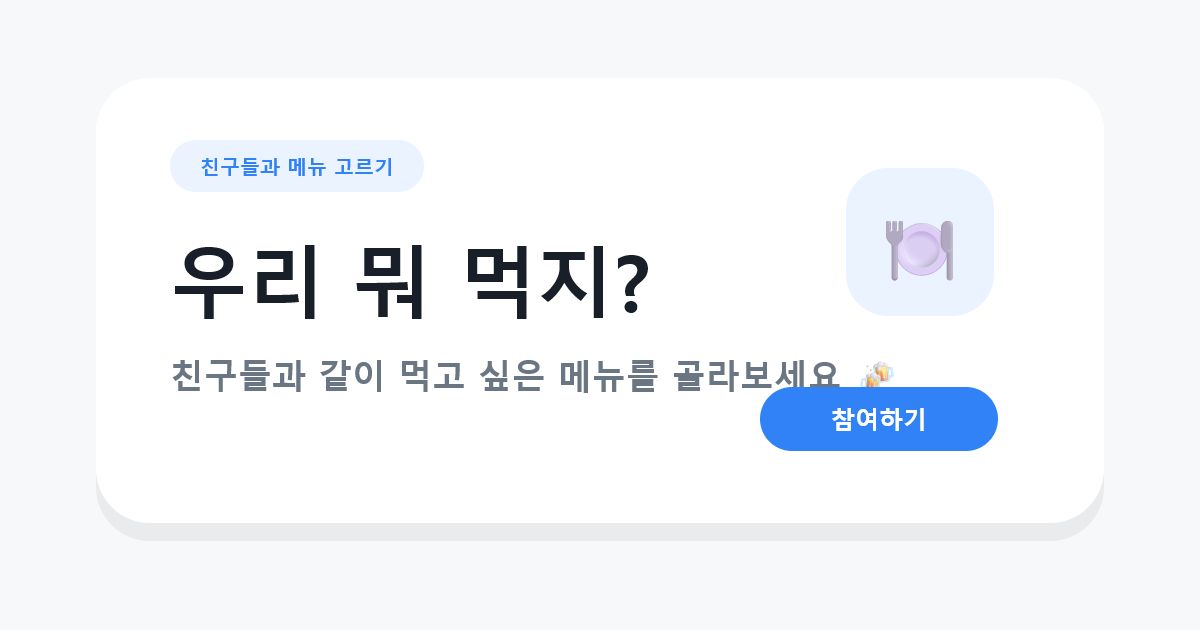
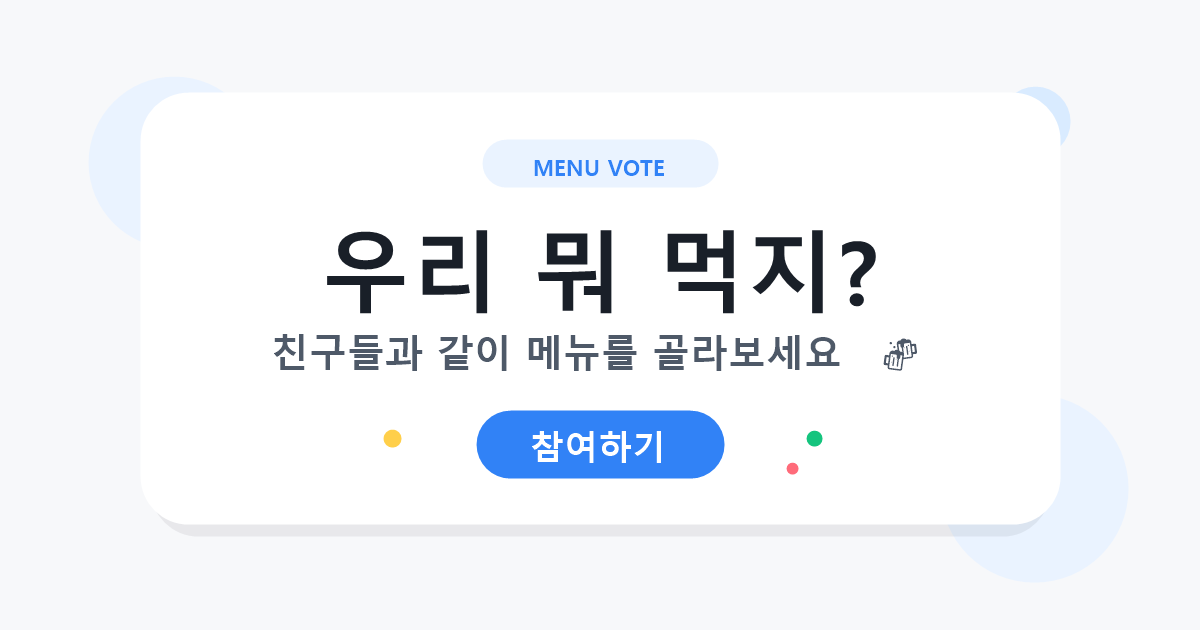
Fix sharing and delivery result flow

diff --git a/app/components/VoteResult.tsx b/app/components/VoteResult.tsx
@@ -229,8 +229,8 @@ export default function VoteResult() {
   const [rouletteRotation, setRouletteRotation] = useState(0);
   const [rouletteWinner, setRouletteWinner] = useState("");
   const [showConfetti, setShowConfetti] = useState(false);
-  const [tieBreakerMode, setTieBreakerMode] = useState<"roulette" | "revote">(
-    "roulette",
+  const [tieBreakerMode, setTieBreakerMode] = useState<"select" | "revote">(
+    "select",
   );
   const [selectedRevoteMenu, setSelectedRevoteMenu] = useState("");
   const [isSavingRevote, setIsSavingRevote] = useState(false);
@@ -549,6 +549,7 @@ export default function VoteResult() {
       return;
     }
 
+    setTieBreakerMode("revote");
     setDecision({
       type: "revote",
       menus: payload.slice(1),
@@ -593,6 +594,7 @@ export default function VoteResult() {
           menus: existingDecision.menus.slice(1),
           createdAt: existingDecision.created_at,
         });
+        setTieBreakerMode("revote");
       } else {
         const { error } = await supabase.from("votes").insert({
           project_id: projectId,
@@ -611,6 +613,7 @@ export default function VoteResult() {
           menus: candidates,
           createdAt: new Date().toISOString(),
         });
+        setTieBreakerMode("revote");
       }
     }
 
@@ -850,52 +853,7 @@ export default function VoteResult() {
                       </span>
                     ))}
                   </div>
-                  {tieBreakerMode === "roulette" ? (
-                    <>
-                      <div className="relative mx-auto mt-5 flex h-64 w-64 items-center justify-center">
-                        <div className="absolute -top-1 z-10 h-0 w-0 border-x-[13px] border-t-[24px] border-x-transparent border-t-[#191f28]" />
-                        <div
-                          className="relative h-60 w-60 rounded-full border-[10px] border-white shadow-[0_14px_34px_rgba(25,31,40,0.12)]"
-                          style={{
-                            background: buildRouletteBackground(
-                              topMenus.map((item) => item.menu),
-                            ),
-                          }}
-                        >
-                          {topMenus.map((item, index) => {
-                            const segmentAngle = 360 / topMenus.length;
-                            const angle =
-                              index * segmentAngle + segmentAngle / 2 - 90;
-
-                            return (
-                              <div
-                                key={item.menu}
-                                className="absolute left-1/2 top-1/2 origin-left text-[13px] font-black text-[#191f28]"
-                                style={{
-                                  transform: `rotate(${angle}deg) translateX(46px) rotate(90deg)`,
-                                }}
-                              >
-                                <span className="rounded-full bg-white/75 px-2 py-1 shadow-sm">
-                                  {menuIcons[item.menu] || "🍽"} {item.menu}
-                                </span>
-                              </div>
-                            );
-                          })}
-                          <button
-                            type="button"
-                            onClick={() => saveDecision("random")}
-                            disabled={Boolean(decisionAction)}
-                            className="absolute left-1/2 top-1/2 flex h-16 w-16 -translate-x-1/2 -translate-y-1/2 items-center justify-center rounded-full bg-white text-base font-black shadow-[0_8px_18px_rgba(25,31,40,0.16)] transition-all hover:scale-105 active:scale-95 disabled:text-[#b0b8c1]"
-                          >
-                            돌리기
-                          </button>
-                        </div>
-                      </div>
-                      <p className="mt-3 text-center text-xs font-bold text-[#8b95a1]">
-                        준비되면 버튼을 눌러 룰렛을 돌려보세요
-                      </p>
-                    </>
-                  ) : (
+                  {tieBreakerMode === "revote" ? (
                     <div className="mt-5 rounded-[28px] bg-white p-4">
                       <p className="text-sm font-black text-[#191f28]">
                         1등 메뉴 다시 투표 🗳
@@ -935,35 +893,28 @@ export default function VoteResult() {
                         {isSavingRevote ? "저장 중..." : "재투표 완료"}
                       </button>
                     </div>
+                  ) : (
+                    <div className="mt-5 grid grid-cols-1 gap-2">
+                      <button
+                        type="button"
+                        onClick={() => saveDecision("random")}
+                        disabled={Boolean(decisionAction)}
+                        className="h-12 rounded-[24px] bg-[#3182f6] text-sm font-extrabold text-white transition-all hover:scale-[1.02] active:scale-[0.99] disabled:bg-[#d8dde3]"
+                      >
+                        🎲 랜덤 룰렛
+                      </button>
+                      <button
+                        type="button"
+                        onClick={() => saveDecision("revote")}
+                        disabled={Boolean(decisionAction)}
+                        className="h-12 rounded-[24px] border border-[#dbe5f0] bg-white text-sm font-extrabold text-[#3182f6] transition-all hover:scale-[1.02] active:scale-[0.99] disabled:text-[#b0b8c1]"
+                      >
+                        {decisionAction === "revote"
+                          ? "재투표 준비 중..."
+                          : "🗳 공동 1등 재투표"}
+                      </button>
+                    </div>
                   )}
-                  <div className="mt-4 grid grid-cols-2 gap-2">
-                    <button
-                      type="button"
-                      onClick={() => setTieBreakerMode("roulette")}
-                      disabled={Boolean(decisionAction)}
-                      className={[
-                        "h-12 rounded-[24px] text-sm font-extrabold transition-all hover:scale-[1.02] active:scale-[0.99] disabled:text-[#b0b8c1]",
-                        tieBreakerMode === "roulette"
-                          ? "bg-[#3182f6] text-white"
-                          : "border border-[#dbe5f0] bg-white text-[#3182f6]",
-                      ].join(" ")}
-                    >
-                      🎲 룰렛 돌리기
-                    </button>
-                    <button
-                      type="button"
-                      onClick={() => setTieBreakerMode("revote")}
-                      disabled={Boolean(decisionAction)}
-                      className={[
-                        "h-12 rounded-[24px] text-sm font-extrabold transition-all hover:scale-[1.02] active:scale-[0.99] disabled:text-[#b0b8c1]",
-                        tieBreakerMode === "revote"
-                          ? "bg-[#3182f6] text-white"
-                          : "border border-[#dbe5f0] bg-white text-[#3182f6]",
-                      ].join(" ")}
-                    >
-                      🗳 1등 메뉴만 다시 투표
-                    </button>
-                  </div>
                 </>
               )}
             </div>
@@ -1020,28 +971,102 @@ export default function VoteResult() {
               )}
 
               {isDelivery ? (
-                <div className="mt-4 rounded-[26px] bg-white p-3">
-                  <p className="px-1 text-xs font-extrabold text-[#8b95a1]">
-                    배달 주소
-                  </p>
-                  <input
-                    value={locationQuery}
-                    onChange={(event) => {
-                      setLocationMode("search");
-                      setLocationQuery(event.target.value);
-                      setLocationLabel("");
-                      setLocationCoords(null);
-                      setLocationError("");
-                    }}
-                    onKeyDown={(event) => {
-                      if (event.key === "Enter" && canRecommend) {
-                        goToRecommendations();
-                      }
-                    }}
-                    placeholder="예: 강남역 11번 출구, 성수동 카페거리"
-                    className="mt-2 h-12 w-full rounded-[24px] border border-[#e8eef6] bg-[#f7f8fa] px-4 text-sm font-bold text-[#191f28] outline-none transition-all placeholder:text-[#b0b8c1] focus:border-[#3182f6] focus:bg-white"
-                  />
-                </div>
+                <>
+                  <div className="mt-4 grid grid-cols-2 gap-2">
+                    <button
+                      type="button"
+                      onClick={selectCurrentLocation}
+                      disabled={isLocating}
+                      className={[
+                        "h-12 rounded-[24px] text-sm font-extrabold transition-all hover:scale-[1.02] active:scale-[0.99] disabled:opacity-70",
+                        locationMode === "current"
+                          ? "border border-[#3182f6] bg-[#eaf3ff] text-[#3182f6]"
+                          : "border border-[#e8eef6] bg-white text-[#4e5968]",
+                      ].join(" ")}
+                    >
+                      {isLocating ? "확인 중..." : "📍 현재 위치 사용"}
+                    </button>
+                    <button
+                      type="button"
+                      onClick={selectSearchLocation}
+                      className={[
+                        "h-12 rounded-[24px] text-sm font-extrabold transition-all hover:scale-[1.02] active:scale-[0.99]",
+                        locationMode === "search"
+                          ? "border border-[#3182f6] bg-[#eaf3ff] text-[#3182f6]"
+                          : "border border-[#e8eef6] bg-white text-[#4e5968]",
+                      ].join(" ")}
+                    >
+                      주소 검색
+                    </button>
+                  </div>
+
+                  {locationMode === "search" && (
+                    <div className="mt-3 rounded-[26px] bg-white p-3">
+                      <p className="px-1 text-xs font-extrabold text-[#8b95a1]">
+                        배달 주소
+                      </p>
+                      <input
+                        value={locationQuery}
+                        onChange={(event) => {
+                          setLocationQuery(event.target.value);
+                          setLocationLabel("");
+                          setLocationCoords(null);
+                          setLocationCandidates([]);
+                          setLocationError("");
+                        }}
+                        onKeyDown={(event) => {
+                          if (event.key === "Enter") {
+                            searchLocationCandidates();
+                          }
+                        }}
+                        placeholder="예: 강남역 11번 출구, 성수동 카페거리"
+                        className="mt-2 h-12 w-full rounded-[24px] border border-[#e8eef6] bg-[#f7f8fa] px-4 text-sm font-bold text-[#191f28] outline-none transition-all placeholder:text-[#b0b8c1] focus:border-[#3182f6] focus:bg-white"
+                      />
+                      <button
+                        type="button"
+                        onClick={searchLocationCandidates}
+                        disabled={isSearchingLocations || !locationQuery.trim()}
+                        className="mt-2 h-11 w-full rounded-[22px] bg-[#3182f6] text-sm font-extrabold text-white transition-all hover:scale-[1.01] active:scale-[0.99] disabled:bg-[#d8dde3]"
+                      >
+                        {isSearchingLocations ? "검색 중..." : "주소 검색"}
+                      </button>
+                      {locationCandidates.length > 0 && (
+                        <div className="mt-3 space-y-2">
+                          <p className="px-1 text-xs font-extrabold text-[#8b95a1]">
+                            배달받을 위치를 선택해주세요
+                          </p>
+                          {locationCandidates.map((candidate) => {
+                            const isSelected =
+                              locationLabel === candidate.label &&
+                              locationCoords?.lat === Number(candidate.lat) &&
+                              locationCoords?.lng === Number(candidate.lng);
+
+                            return (
+                              <button
+                                type="button"
+                                key={candidate.id}
+                                onClick={() => selectLocationCandidate(candidate)}
+                                className={[
+                                  "w-full rounded-[20px] border px-4 py-3 text-left transition-all hover:scale-[1.01] active:scale-[0.99]",
+                                  isSelected
+                                    ? "border-[#3182f6] bg-[#eaf3ff]"
+                                    : "border-[#e8eef6] bg-white",
+                                ].join(" ")}
+                              >
+                                <span className="block text-sm font-black text-[#191f28]">
+                                  {candidate.label}
+                                </span>
+                                <span className="mt-1 block text-xs font-bold text-[#6b7684]">
+                                  {candidate.detail}
+                                </span>
+                              </button>
+                            );
+                          })}
+                        </div>
+                      )}
+                    </div>
+                  )}
+                </>
               ) : (
                 <>
                   <div className="mt-4 grid grid-cols-2 gap-2">

diff --git a/app/invite/page.tsx b/app/invite/page.tsx
@@ -8,6 +8,7 @@ const KAKAO_SDK_ID = "kakao-javascript-sdk";
 const KAKAO_SDK_URL = "https://t1.kakaocdn.net/kakao_js_sdk/2.8.1/kakao.min.js";
 const PRODUCTION_ORIGIN = "https://menu-project-three-ruddy.vercel.app";
 const KAKAO_SHARE_DEBUG_KEY = "kakao_share_debug_info";
+const SHOW_KAKAO_SHARE_DEBUG = process.env.NODE_ENV === "development";
 
 const meetingTypeLabels: Record<string, string> = {
   offline: "만나서 먹기",
@@ -188,7 +189,7 @@ function InviteContent() {
   const [notice, setNotice] = useState("");
   const [shareDebugInfo, setShareDebugInfo] =
     useState<KakaoShareDebugInfo | null>(() => {
-      if (typeof window === "undefined") {
+      if (!SHOW_KAKAO_SHARE_DEBUG || typeof window === "undefined") {
         return null;
       }
 
@@ -288,25 +289,27 @@ function InviteContent() {
       suspiciousUrlReason: getSuspiciousUrlReason(participantUrl),
     };
 
-    console.log("[Kakao Share Debug] window.location.href", window.location.href);
-    console.log("[Kakao Share Debug] participantUrl", participantUrl);
-    console.log(
-      "[Kakao Share Debug] link.mobileWebUrl",
-      payload.content.link.mobileWebUrl,
-    );
-    console.log("[Kakao Share Debug] link.webUrl", payload.content.link.webUrl);
-    console.log(
-      "[Kakao Share Debug] Kakao.isInitialized before load",
-      kakaoInitializedBeforeLoad,
-    );
-    console.log(
-      "[Kakao Share Debug] SDK execution origin",
-      baseDebugInfo.currentOrigin,
-      baseDebugInfo.executionOriginReason,
-    );
-    console.log("[Kakao Share Debug] payload", payload);
-    sessionStorage.setItem(KAKAO_SHARE_DEBUG_KEY, JSON.stringify(baseDebugInfo));
-    setShareDebugInfo(baseDebugInfo);
+    if (SHOW_KAKAO_SHARE_DEBUG) {
+      console.log("[Kakao Share Debug] window.location.href", window.location.href);
+      console.log("[Kakao Share Debug] participantUrl", participantUrl);
+      console.log(
+        "[Kakao Share Debug] link.mobileWebUrl",
+        payload.content.link.mobileWebUrl,
+      );
+      console.log("[Kakao Share Debug] link.webUrl", payload.content.link.webUrl);
+      console.log(
+        "[Kakao Share Debug] Kakao.isInitialized before load",
+        kakaoInitializedBeforeLoad,
+      );
+      console.log(
+        "[Kakao Share Debug] SDK execution origin",
+        baseDebugInfo.currentOrigin,
+        baseDebugInfo.executionOriginReason,
+      );
+      console.log("[Kakao Share Debug] payload", payload);
+      sessionStorage.setItem(KAKAO_SHARE_DEBUG_KEY, JSON.stringify(baseDebugInfo));
+      setShareDebugInfo(baseDebugInfo);
+    }
 
     try {
       await loadKakaoSdk();
@@ -317,18 +320,20 @@ function InviteContent() {
 
       const kakaoInitializedAfterLoad = window.Kakao.isInitialized();
 
-      console.log(
-        "[Kakao Share Debug] Kakao.isInitialized after load",
-        kakaoInitializedAfterLoad,
-      );
-      console.log("[Kakao Share Debug] sendDefault payload", payload);
       const nextDebugInfo = {
         ...baseDebugInfo,
         kakaoInitializedAfterLoad,
       };
 
-      sessionStorage.setItem(KAKAO_SHARE_DEBUG_KEY, JSON.stringify(nextDebugInfo));
-      setShareDebugInfo(nextDebugInfo);
+      if (SHOW_KAKAO_SHARE_DEBUG) {
+        console.log(
+          "[Kakao Share Debug] Kakao.isInitialized after load",
+          kakaoInitializedAfterLoad,
+        );
+        console.log("[Kakao Share Debug] sendDefault payload", payload);
+        sessionStorage.setItem(KAKAO_SHARE_DEBUG_KEY, JSON.stringify(nextDebugInfo));
+        setShareDebugInfo(nextDebugInfo);
+      }
       await waitForPaint();
 
       window.Kakao.Share.sendDefault(payload);
@@ -336,15 +341,17 @@ function InviteContent() {
       const errorMessage =
         error instanceof Error ? error.message : "Unknown Kakao Share error";
 
-      console.log("[Kakao Share Debug] share error", error);
       const nextDebugInfo = {
         ...baseDebugInfo,
         kakaoInitializedAfterLoad: window.Kakao?.isInitialized() ?? null,
         errorMessage,
       };
 
-      sessionStorage.setItem(KAKAO_SHARE_DEBUG_KEY, JSON.stringify(nextDebugInfo));
-      setShareDebugInfo(nextDebugInfo);
+      if (SHOW_KAKAO_SHARE_DEBUG) {
+        console.log("[Kakao Share Debug] share error", error);
+        sessionStorage.setItem(KAKAO_SHARE_DEBUG_KEY, JSON.stringify(nextDebugInfo));
+        setShareDebugInfo(nextDebugInfo);
+      }
       await copyInviteLink();
       showNotice("공유창을 열지 못해서 링크를 복사했어요");
     }
@@ -413,7 +420,7 @@ function InviteContent() {
           {notice || "링크가 복사됐어요"}
         </p>
 
-        {shareDebugInfo && (
+        {SHOW_KAKAO_SHARE_DEBUG && shareDebugInfo && (
           <div className="mt-4 rounded-[24px] border border-[#dbe5f0] bg-white p-4 text-left shadow-[0_4px_14px_rgba(25,31,40,0.035)]">
             <div className="mb-3 flex items-center justify-between gap-3">
               <p className="text-sm font-black text-[#191f28]">
